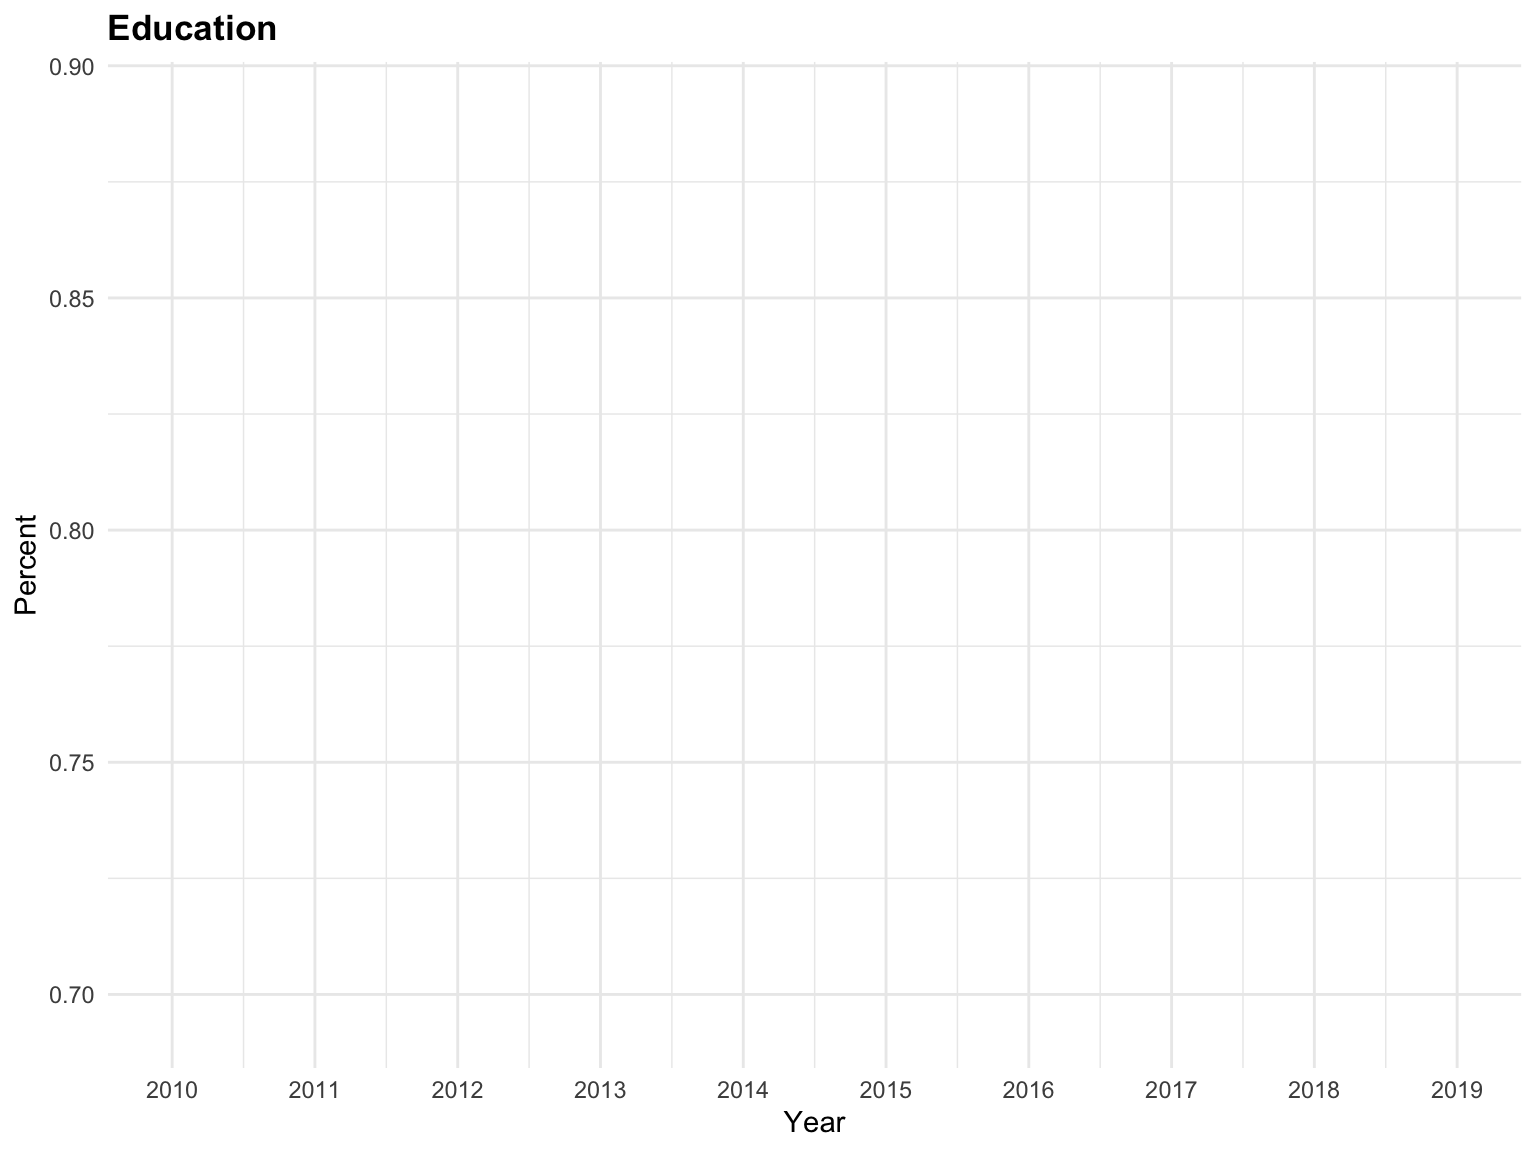
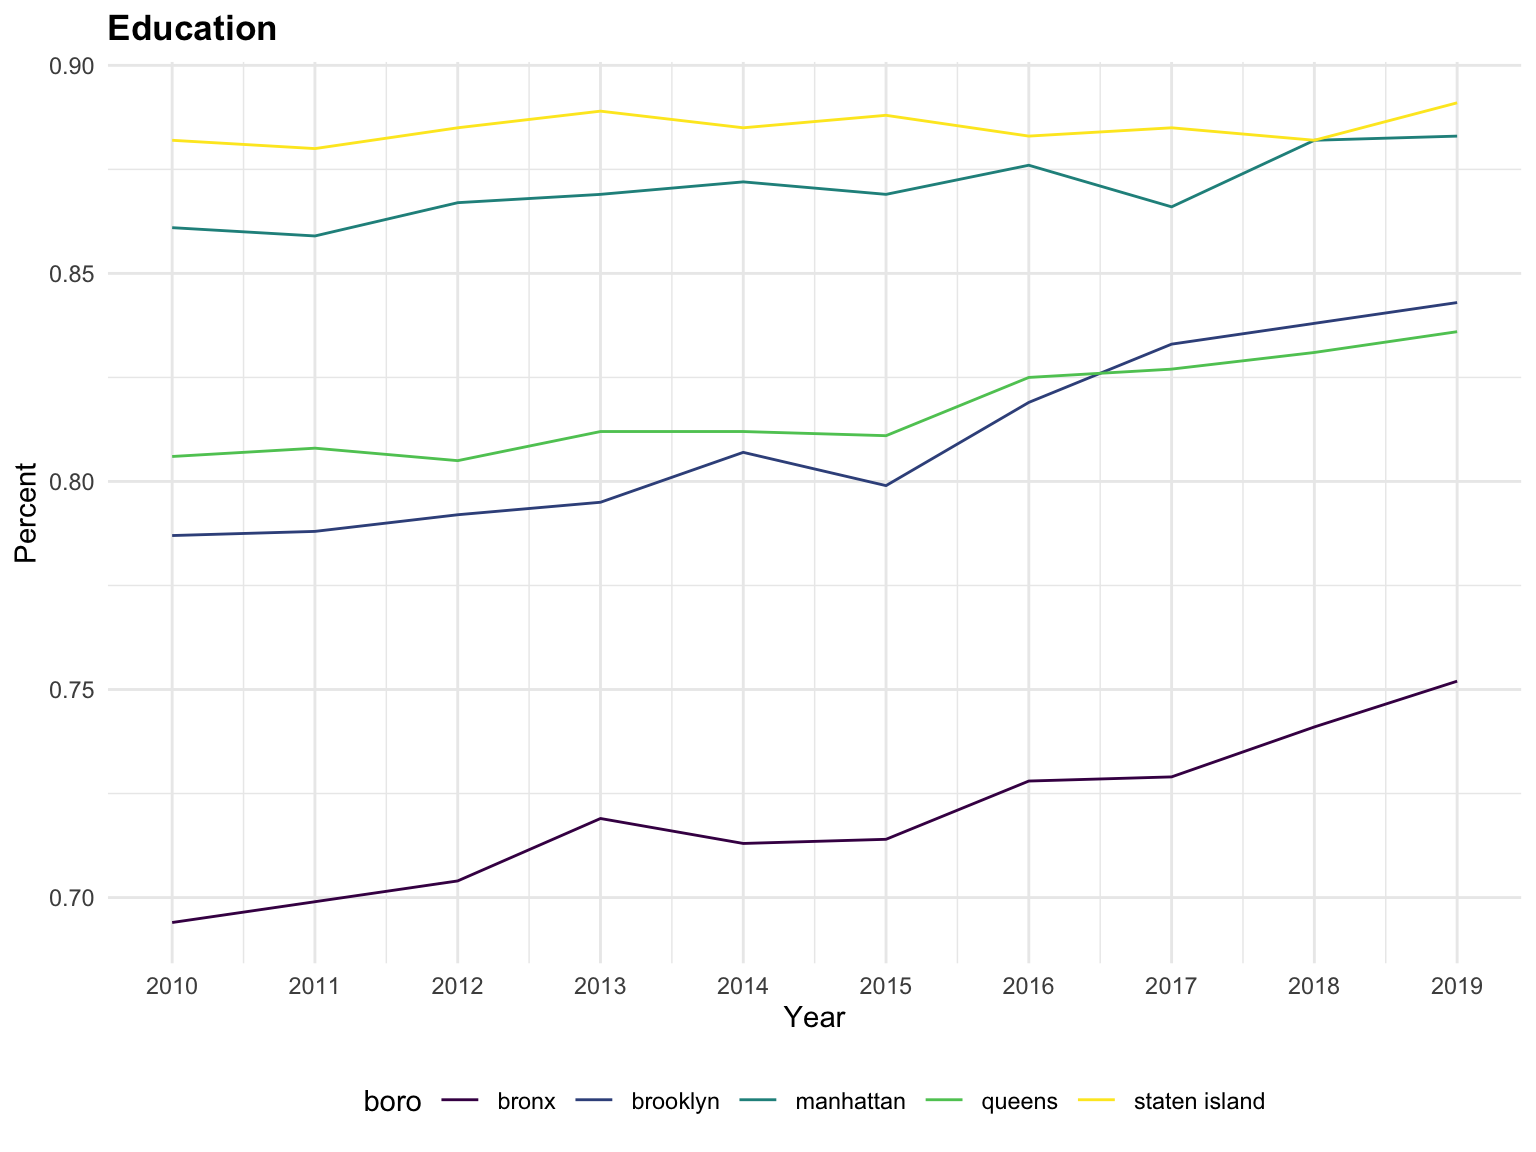
add education and unemployment rate

diff --git a/analysis.html b/analysis.html
@@ -370,7 +370,8 @@ div.tocify {
 <h1>Overall glance</h1>
 <p>At the very beginning, let’s have a overall glance at the shooting incidence and focusing on the most serious issue, which is the amount of death on shooting incident from <strong>2006 to 2020</strong> in New York City.</p>
 <p><img src="analysis_files/figure-html/unnamed-chunk-4-1.png" width="90%" /></p>
-<p>Murdered shooting incidence is much less than survived shooting incidence. From 2006 to 2011, the survived shooting incidence was steadily fluctuate around 1500 and murdered shooting incidence was steadily fluctuate around 400.Both types of the shooting incidence were decreasing gradually from 2010 to 2019. However, there is a huge dramatically increase in 2020. We suspect it might be influenced by the outbreak of COVID-19 which led to a raise in unemployment and panic. We will do more statistical analysis on that later.</p>
+<p><em>comment</em><br />
+Murdered shooting incidence is much less than survived shooting incidence. From 2006 to 2011, the survived shooting incidence was steadily fluctuate around 1500 and murdered shooting incidence was steadily fluctuate around 400.Both types of the shooting incidence were decreasing gradually from 2010 to 2019. However, there is a huge dramatically increase in 2020. We suspect it might be influenced by the outbreak of COVID-19 which led to a raise in unemployment and panic. We will do more statistical analysis on that later.</p>
 <p>Now, let’s take a closer look on more details about the victims.</p>
 </div>
 <div id="victim" class="section level1">
@@ -378,55 +379,48 @@ div.tocify {
 <div id="race" class="section level2">
 <h2>Race</h2>
 <p><img src="analysis_files/figure-html/unnamed-chunk-5-1.png" width="90%" /></p>
-<p>The majority of victim are <strong>black</strong>. In 2010, 2011 and 2014, white people are the second highest number of victim. The rest of years, white hispanic are the second most among all victim’s race.</p>
+<p><em>comment</em><br />
+The majority of victim are <strong>black</strong>. In 2010, 2011 and 2014, white people are the second highest number of victim. The rest of years, white hispanic are the second most among all victim’s race.</p>
 </div>
 <div id="sex" class="section level2">
 <h2>Sex</h2>
 <p><img src="analysis_files/figure-html/unnamed-chunk-6-1.png" width="90%" /></p>
-<p><strong>Male</strong> victims are the majority and female victims have a very small proportion among the total victims in nyc across 2006 to 2020.</p>
+<p><em>comment</em><br />
+<strong>Male</strong> victims are the majority and female victims have a very small proportion among the total victims in nyc across 2006 to 2020.</p>
 </div>
-<div id="age-group" class="section level2">
-<h2>Age group</h2>
+<div id="age" class="section level2">
+<h2>Age</h2>
 <p><img src="analysis_files/figure-html/unnamed-chunk-7-1.png" width="90%" /></p>
-<p>The proportion of age group under 18 and 45-64 have been keeping consistently low across 2006 to 2020, and there are nearly zero incidence for age group over 65. From 2006-2014, age group 18-24 and age group 25-44 have the highest proportion among the shooting incident. But since 2015, the amount of group 18-24 victims have been decreasing rapidly and become the second highest group among the total shooting incident. 18-24 usually is the age to graduate from high school and enter to college, this decrease may referring to some educational policy from 2015.</p>
+<p><em>comment</em><br />
+The proportion of age group under 18 and 45-64 have been keeping consistently low across 2006 to 2020, and there are nearly zero incidence for age group over 65. From 2006-2014, age group 18-24 and age group 25-44 have the highest proportion among the shooting incident. But since 2015, the amount of group 18-24 victims have been decreasing rapidly and become the second highest group among the total shooting incident. 18-24 usually is the age to graduate from high school and enter to college, this decrease may referring to some educational policy from 2015.Then we want to see what happened in perpetrator.</p>
+<div id="perpetrator-age-group" class="section level3">
+<h3>Perpetrator Age Group</h3>
+<p><img src="analysis_files/figure-html/unnamed-chunk-8-1.png" width="90%" /></p>
+<p><em>comment</em><br />
+From the plot we can see same situation happened. From 2010-2014, age group 18-24 have the highest proportion among the shooting incident. But since 2015, the amount of group 18-24 victims have been decreasing rapidly. Both of the perpetrators and victims might be influenced by the education level. Therefore, we visualize the perpetrator’s age from 2006 to 2020 and present a percentage of each educational level from 2010 to 2020. The association between the educational level and perpetrator’s age group and victim’s age is required more analysis.</p>
+</div>
 </div>
 <div id="place" class="section level2">
 <h2>Place</h2>
-<p><img src="analysis_files/figure-html/unnamed-chunk-8-1.png" width="90%" /></p>
-<p>Most of the shooting incidences happened in the <strong>patrol</strong>, some of the shooting incidences in housing and only few cases were on transit.</p>
+<p><img src="analysis_files/figure-html/unnamed-chunk-9-1.png" width="90%" /></p>
+<p><em>comment</em><br />
+Most of the shooting incidences happened in the <strong>patrol</strong>, some of the shooting incidences in housing and only few cases were on transit.</p>
 </div>
 <div id="hour-in-a-day" class="section level2">
 <h2>Hour in a day</h2>
-<p><img src="analysis_files/figure-html/unnamed-chunk-9-1.png" width="90%" /></p>
-<p><strong>Brooklyn</strong> has most shooting incident, then is bronx. Staten island has least shooting incident since it does not have much population. Most of the shooting incidence happened at night and very early in the morning. For Bronx and Brooklyn, the shooting incidence are gradually increasing after 12pm and reach to peaks around 10pm to 11pm. The shooting incidences in the morning are not as high as the shooting incidences at night. For queens and manhanttan, the shooting incidences in the morning reach to the highest peak and have a noteworthy amount until 5 am. We will provide more statistical analysis about which borought is the most dangerous in next section.</p>
-</div>
-</div>
-<div id="perpetrator" class="section level1">
-<h1>Perpetrator</h1>
-<div id="total-incidence-vs-perpetrators-age" class="section level2">
-<h2>Total incidence vs Perpetrator’s age</h2>
-<p>Both of the perpetrators and victims might be influenced by the education level. Therefore, we visualize the perpetrator’s age from 2006 to 2020 and present a percentage of each educational level from 2010 to 2020. The association between the educational level and perpetrator’s age group and victim’s age is required more analysis.</p>
 <p><img src="analysis_files/figure-html/unnamed-chunk-10-1.png" width="90%" /></p>
-<p><img src="analysis_files/figure-html/unnamed-chunk-11-1.png" width="90%" /> overall, all borough show increase. in 2015, brooklyn that has most shooting incident boro has a notability increase slope.</p>
+<p><em>comment</em><br />
+<strong>Brooklyn</strong> has most shooting incident, then is bronx. Staten island has least shooting incident since it does not have much population. Most of the shooting incidence happened at night and very early in the morning. For Bronx and Brooklyn, the shooting incidence are gradually increasing after 12pm and reach to peaks around 10pm to 11pm. The shooting incidences in the morning are not as high as the shooting incidences at night. For queens and manhanttan, the shooting incidences in the morning reach to the highest peak and have a noteworthy amount until 5 am. We will provide more statistical analysis about which borought is the most dangerous in next section.</p>
+<p><img src="analysis_files/figure-html/unnamed-chunk-11-1.png" width="90%" /></p>
+<p><em>comment</em><br />
+This plot shows the percentage change in each borough over the year that every person over 18 with high school education or above. All borough have the upward trend in last 10 years. However, brooklyn the one with most shooting incident borough has a notability increase slope in 2015, which matched our forecast about the association with age group and education. We conclude that when education increase, the shooting incident decrease.</p>
 </div>
 </div>
 <div id="unemployment" class="section level1">
 <h1>Unemployment</h1>
-<pre class="r"><code>unemployment</code></pre>
-<pre><code>## # A tibble: 300 × 8
-##     ...1 boro   year month labor_force employed unemployed unemployment_rate
-##    &lt;dbl&gt; &lt;chr&gt; &lt;dbl&gt; &lt;chr&gt;       &lt;dbl&gt;    &lt;dbl&gt;      &lt;dbl&gt;             &lt;dbl&gt;
-##  1     1 bronx  2020 jan        598600   566900      31700             0.053
-##  2     2 bronx  2020 feb        602800   571900      30900             0.051
-##  3     3 bronx  2020 mar        597300   563100      34200             0.057
-##  4     4 bronx  2020 apr        550500   448600     101900             0.185
-##  5     5 bronx  2020 may        555100   418600     136500             0.246
-##  6     6 bronx  2020 jun        590700   454300     136500             0.231
-##  7     7 bronx  2020 jul        599500   456700     142800             0.238
-##  8     8 bronx  2020 aug        609100   489600     119500             0.196
-##  9     9 bronx  2020 sep        609200   488400     120800             0.198
-## 10    10 bronx  2020 oct        585300   492700      92600             0.158
-## # … with 290 more rows</code></pre>
+<p><img src="analysis_files/figure-html/unnamed-chunk-12-1.png" width="90%" /></p>
+<p><em>comment</em><br />
+According to the plot, we can see the unemployment rate was decreasing from 2010 to 2019. There is an exaggerated increase in the unemployment rate in 2020, which matched our forecast about the association with total shooting incident and unemployment rate. We conclude that when unemployment increase, the shooting incident increase.</p>
 </div>
 
 
